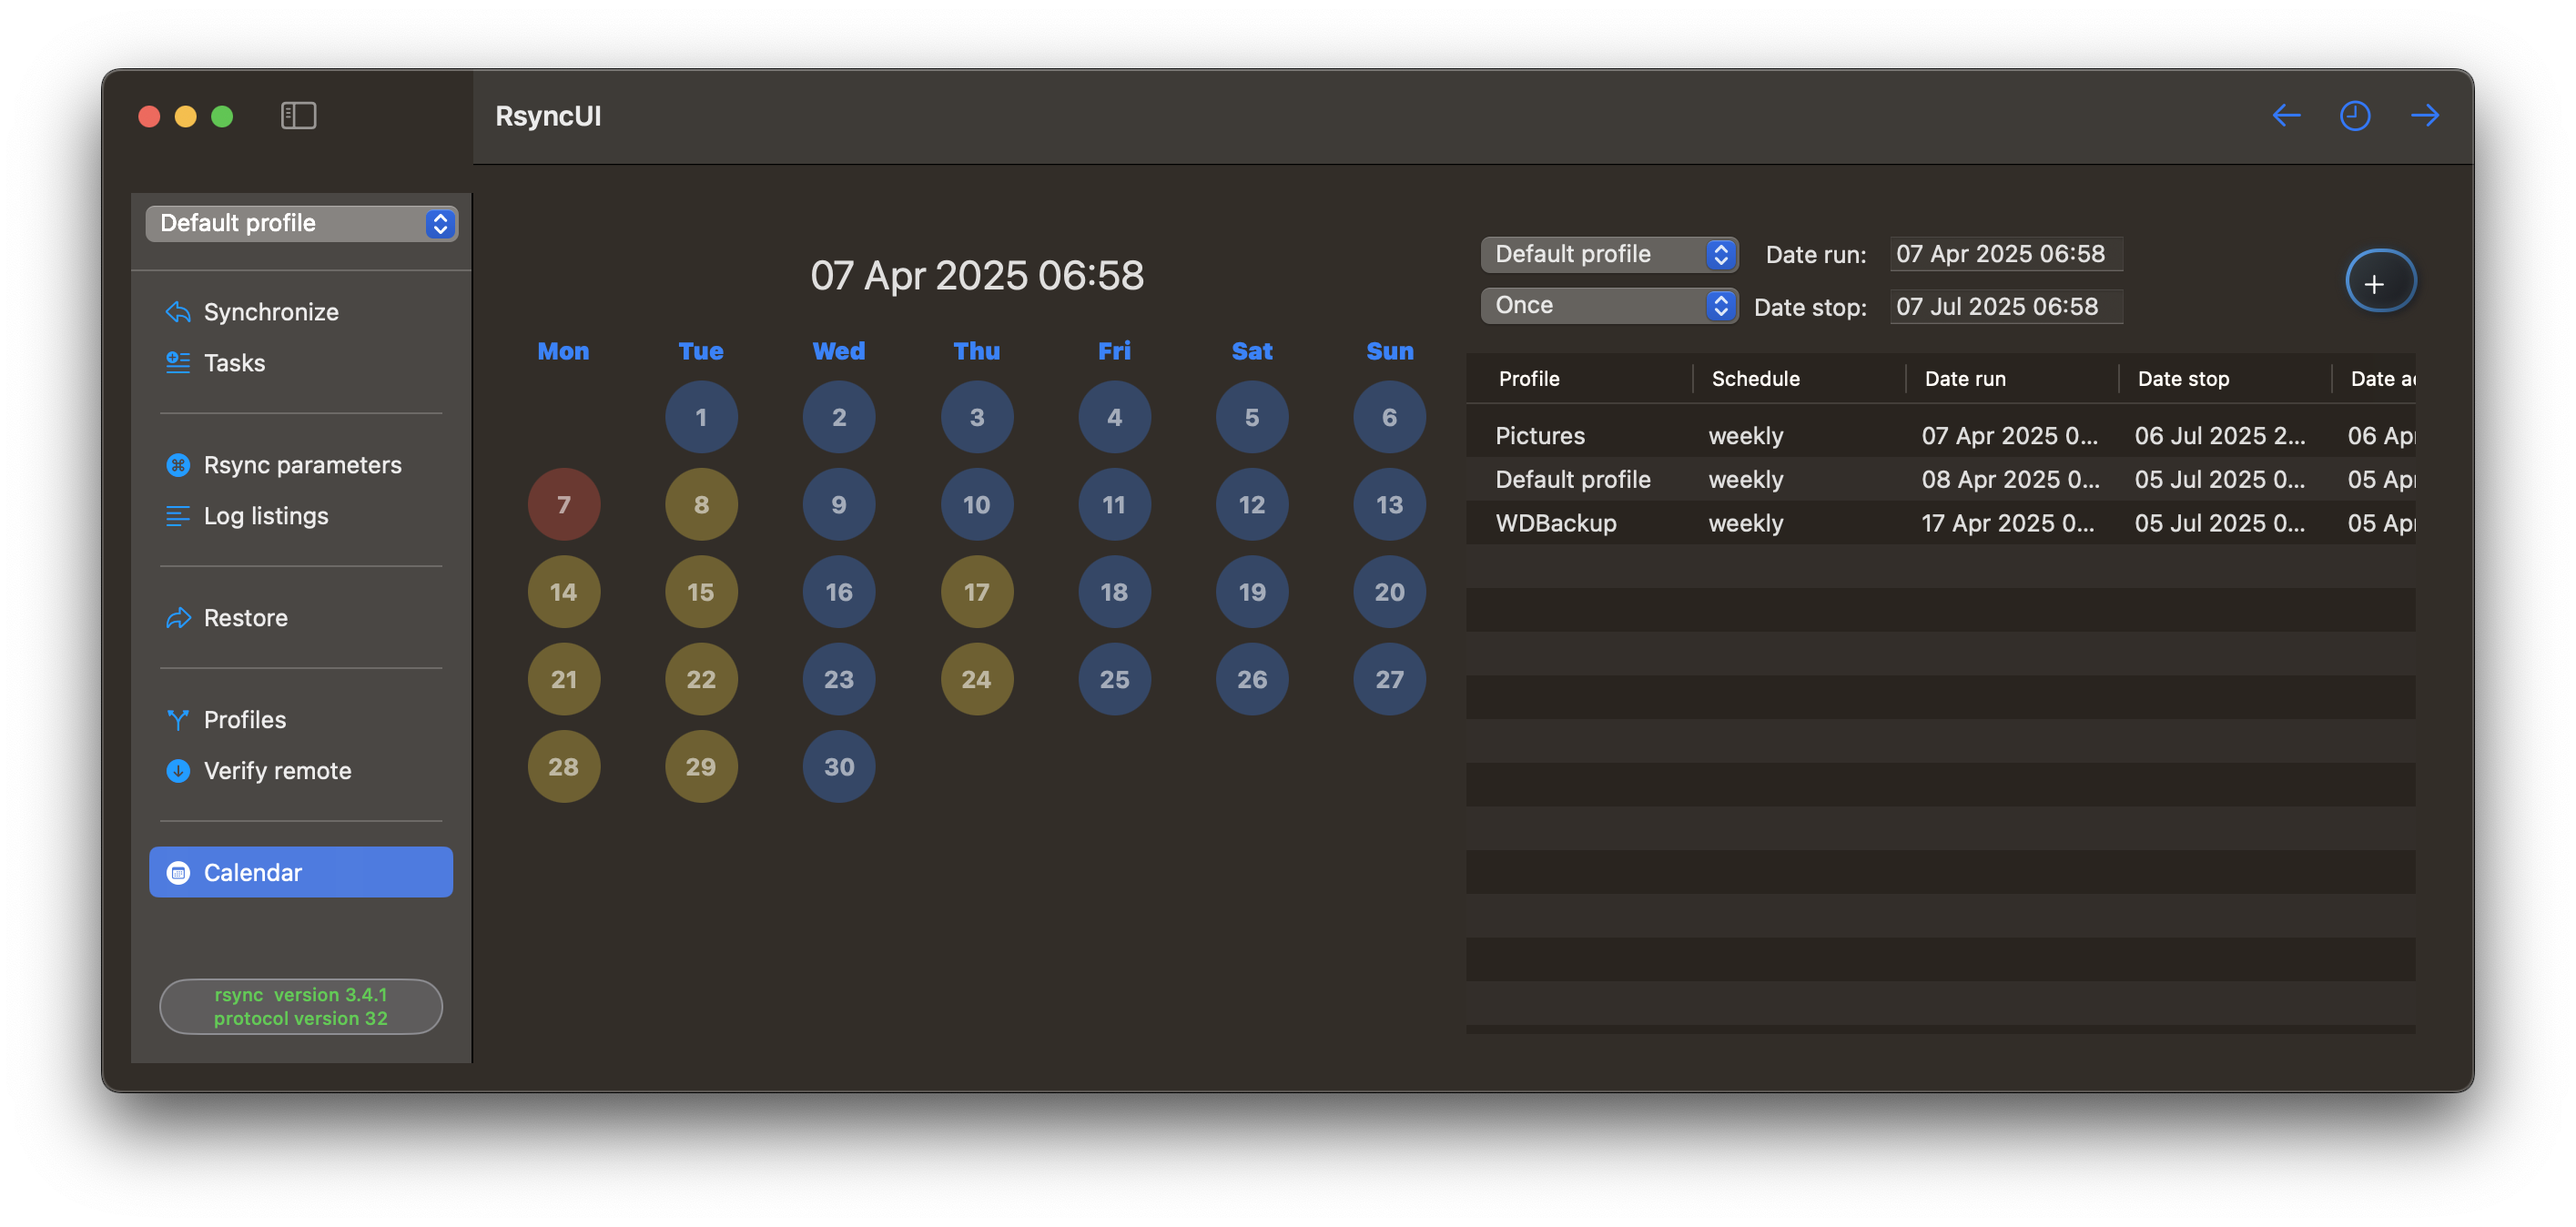
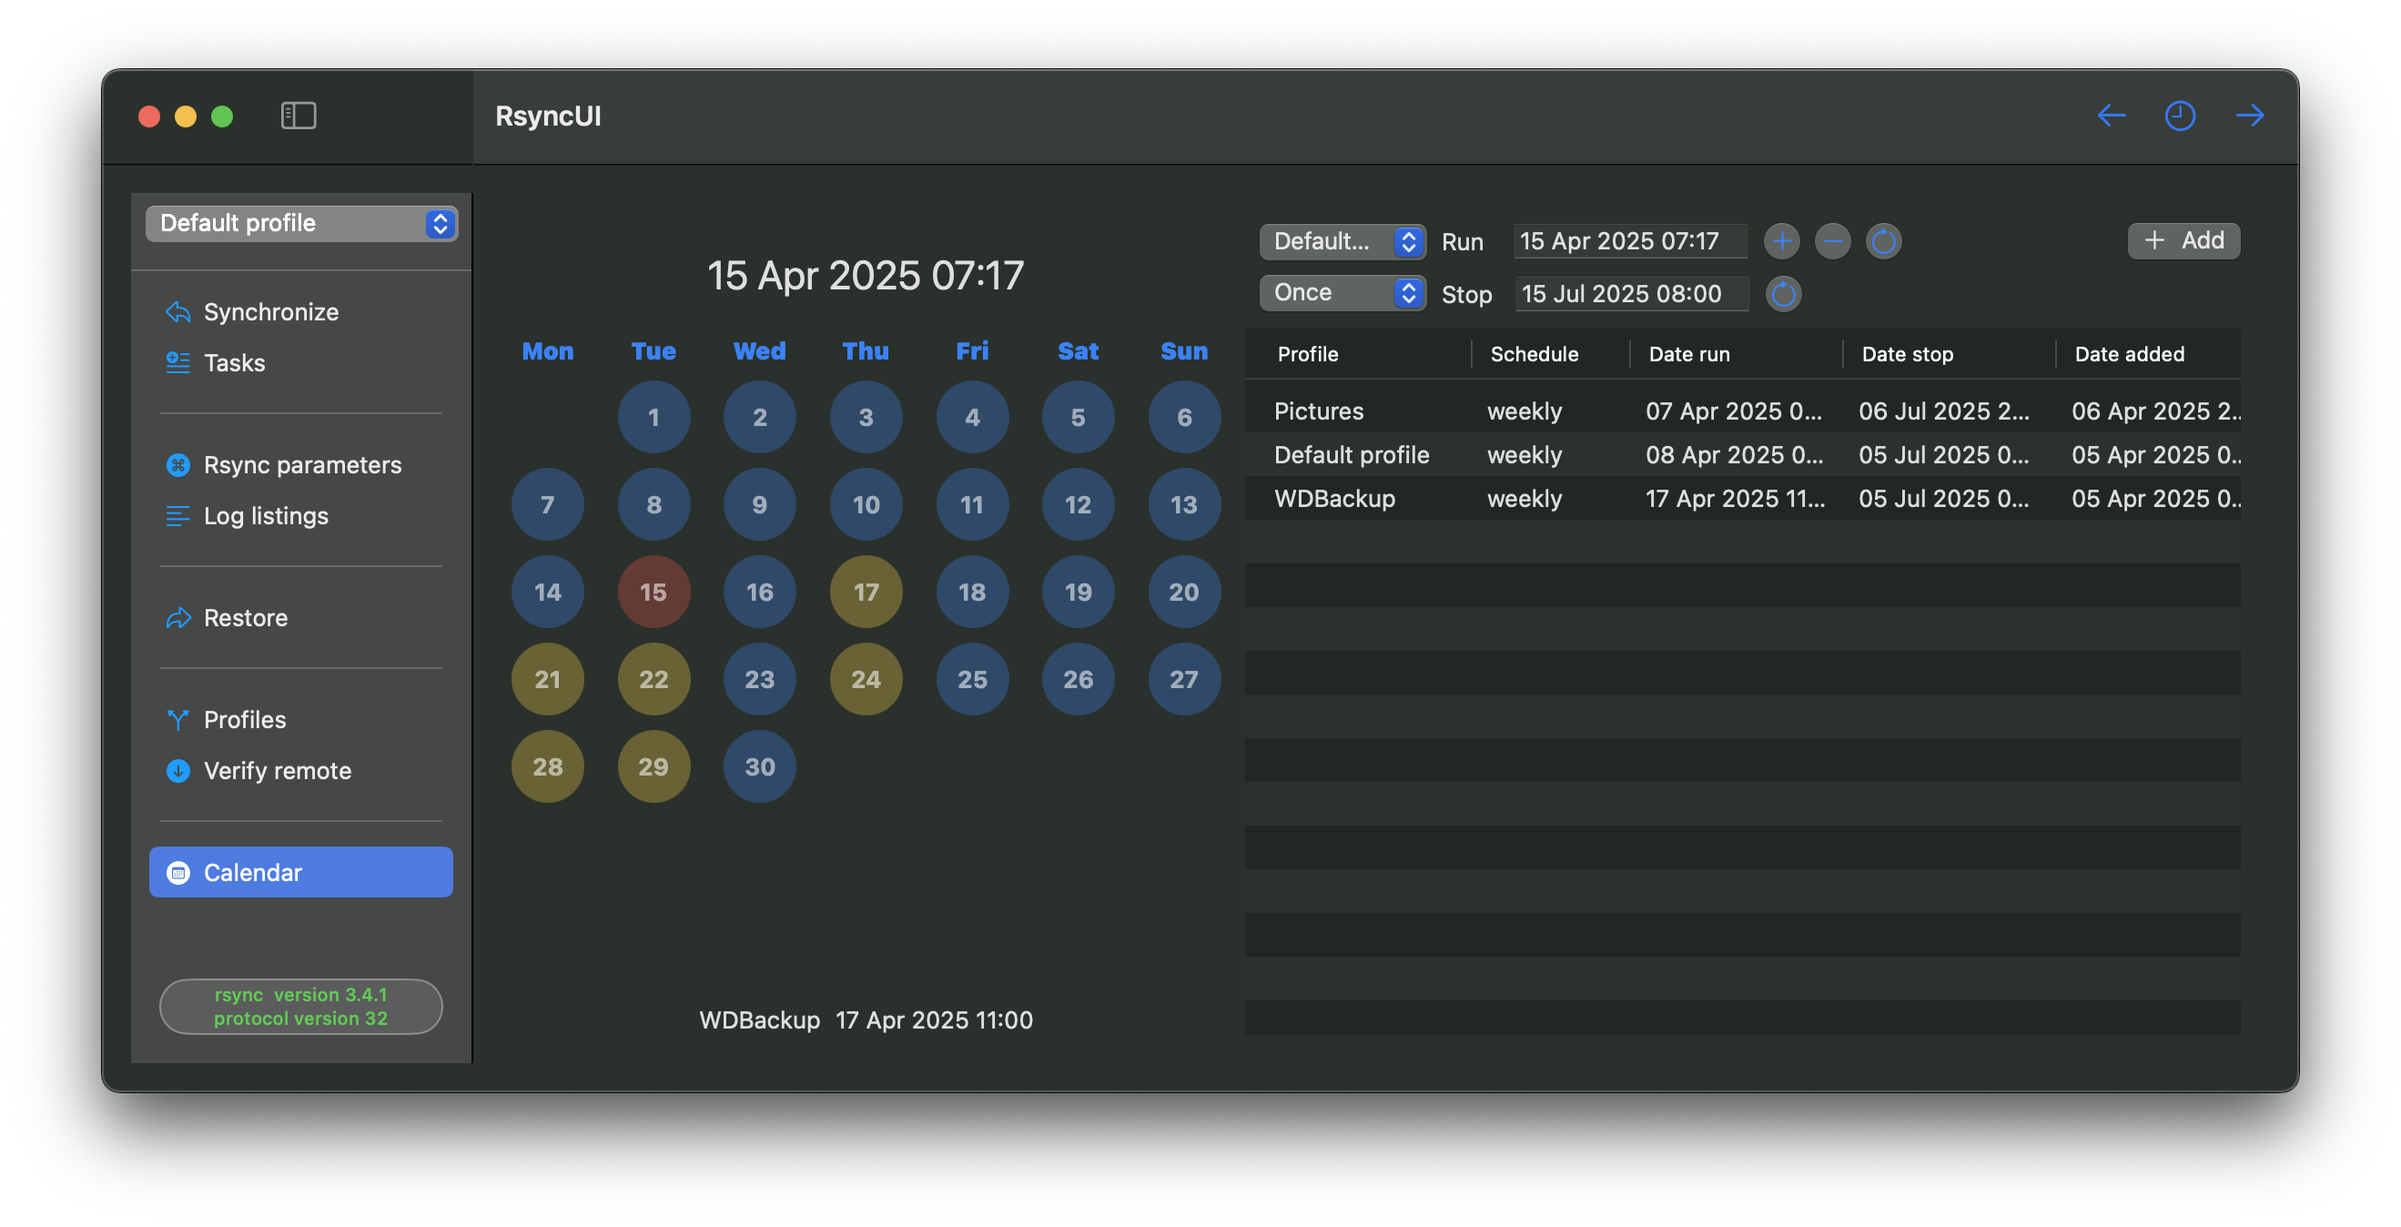
update

diff --git a/content/en/blog/Version250.md b/content/en/blog/Version250.md
@@ -1,7 +1,7 @@
 +++
 author = "Thomas Evensen"
 title = "Version 2.5.0"
-date = "2025-04-05"
+date = "2025-04-15"
 tags = ["changelog","version 2.5.0"]
 categories = ["changelog"]
 +++
@@ -12,7 +12,7 @@ The development of a calendar function and scheduler is underway. The plan inclu
 
 The scheduler will maintain a single schedule at a time. Upon completion of the scheduled action, the scheduler will transition to the next scheduled action and continue tracking it. The calendar view itself does not store any schedules. Instead, it calculates scheduled dates based on the schedule table and marks them yellow. This approach aims to minimize memory usage and resources while keeping track of schedules.
 
-{{< figure src="/images/250/calendar.png" alt="" position="center" style="border-radius: 8px;" >}}
+The scheduler is not an advanced scheduling tool. Its primary function is to automate selected synchronization tasks as long as RsyncUI is in operation. It may prove useful for users who require regular data synchronization during their work.
 
-{{< figure src="/images/250/calendar2.png" alt="" position="center" style="border-radius: 8px;" >}}
+{{< figure src="/images/250/calendar.png" alt="" position="center" style="border-radius: 8px;" >}}
 

diff --git a/content/en/blog/TechnicalDetails/SwiftConcurrency.md b/content/en/blog/TechnicalDetails/SwiftConcurrency.md
@@ -10,9 +10,10 @@ To commence, I must acknowledge that my comprehension of Swift concurrency is li
 
 The most important works: 
 
-- execution of `rsync` tasks
+- execution of `rsync` synchronize tasks
 - monitoring progress and termination of tasks
-- write operations of data to storage
+- write operations of logdata of synchronize tasks to storage
+    - caution: write operation of synchronized data is taken care of by rsync itself
 
 are executed on the main thread.
 
@@ -78,6 +79,6 @@ func somefunction() {
 	}
     ....
 }
-
-
 ```
+
+The above code snippet presents an unstructured concurrency.  The code within the `Task  { ... }` may be completed after the execution of the calling function is completed. 
